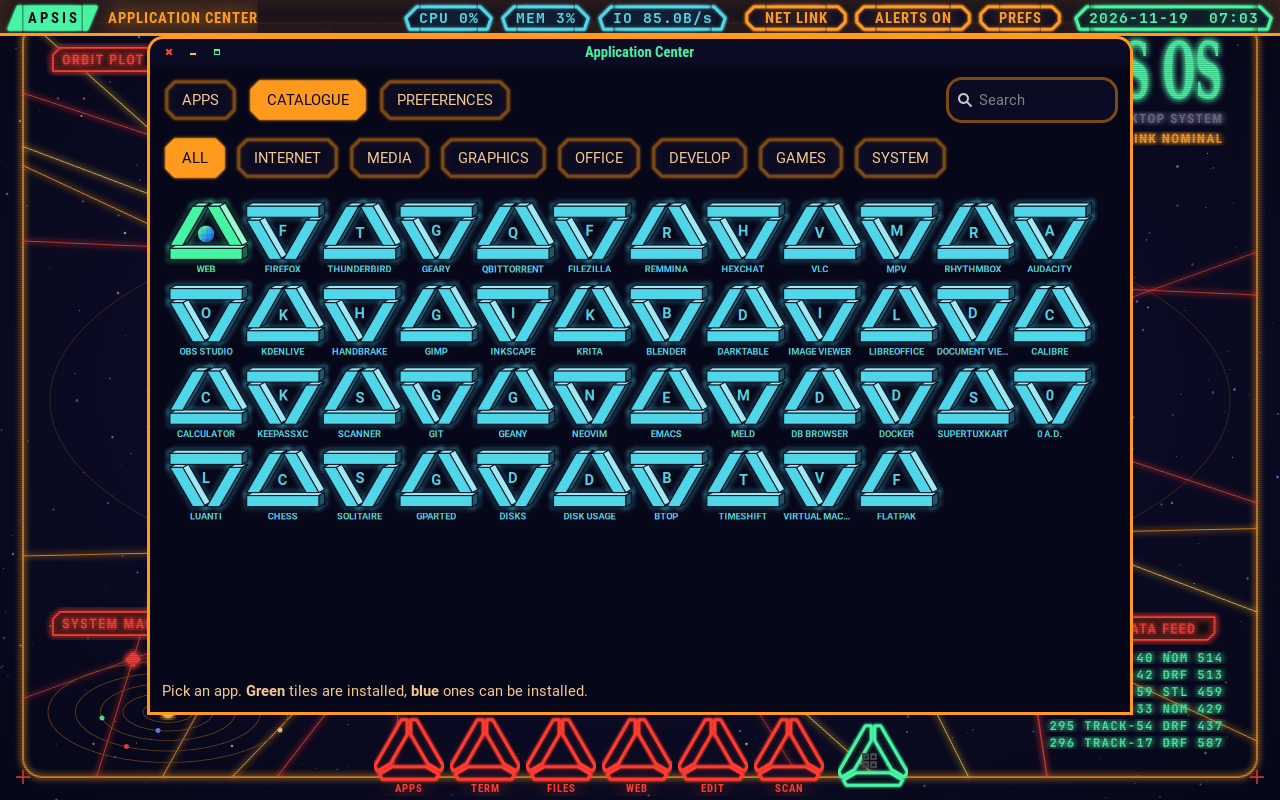
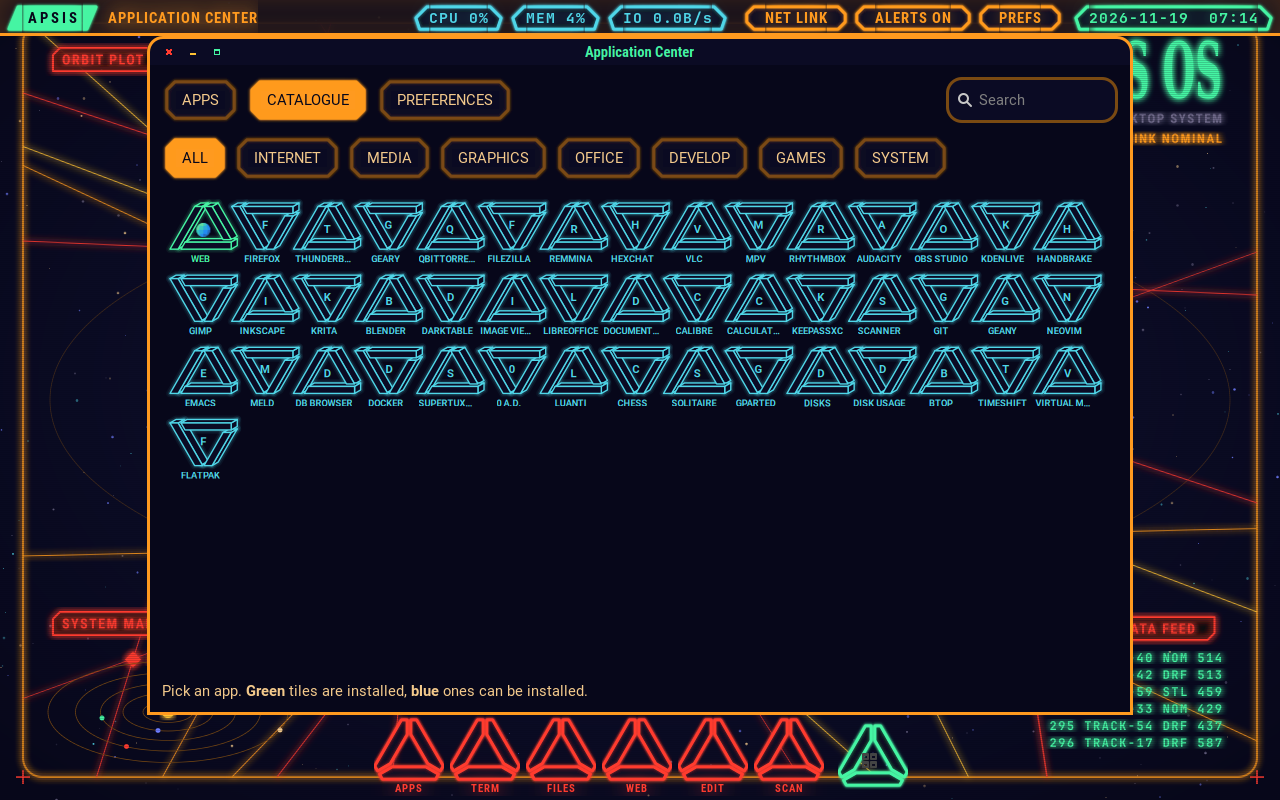
Draw app cells as an outline 3-D mark, closer to the sketch
The beams are now drawn as coloured edges only, with hidden edges
removed, and follow the sketch more closely: the right beam stands on
the level beam, the left one runs down past its end. The mark is about
15% smaller.

Claude-Session: https://claude.ai/code/session_0143c5w43otis7o21CvQfMnG

Changed region(s): [[0.125, 0.25, 0.875, 0.6562], [0.3125, 0.0, 0.5, 0.0625], [0.9688, 0.0, 1.0, 0.0312]]

diff --git a/os/rootfs/usr/share/hud/hudshapes.py b/os/rootfs/usr/share/hud/hudshapes.py
@@ -40,39 +40,42 @@ def tri_size(r, t, d):
 S3 = math.sqrt(3)
 
 
-def block_geometry(r, t, gap):
-    """Numbers shared by tri_blocks and the code that lays the blocks out.
+def tri_blocks(cx, cy, r, t, gap=2.5, up=True):
+    """Front faces of the three beams of the 3-D tri mark.
 
-    The opening is an equilateral triangle with corners r from its centre.
-    Each side of it gets a straight beam t thick, gap away from it; the two
-    slanted beams stand on the level one and end in square cuts side by
-    side at the top.
+    The opening is an equilateral triangle with corners r from its centre;
+    each beam is t thick and gap away from it. As in the reference sketch,
+    the two slanted beams end in square cuts side by side at the top; the
+    right one stands on the level beam, which runs out to its outer edge;
+    the left one runs down past the level beam's left end, which stops
+    short against it.
+
+    Returns (faces, opening centre). The mark is centred on cx across;
+    with up=False it is flipped top to bottom.
     """
     ci = r / 2 + gap / 2                 # centre to a beam's inner face
     co = ci + t                          # centre to a beam's outer face
-    y_top = -(r + t * 0.15)              # where the slanted beams are cut
-    y_foot = r / 2 - gap / 2             # where they stand
+    y_top = -(r + t * 0.2)               # where the slanted beams are cut
     y_bar = r / 2 + gap / 2              # top of the level beam
-    half = (2 * co + y_foot) / S3        # half the level beam's length
-    return ci, co, y_top, y_foot, y_bar, half
+    y_low = y_bar + t                    # bottom of the level beam
+    y_foot = y_bar - gap                 # where the right beam stands
 
-
-def tri_blocks(cx, cy, r, t, gap=3, up=True):
-    """Front faces of the three beams of the 3-D tri mark, as point lists.
-
-    With up=False the mark is flipped top to bottom (the level beam on top).
-    """
-    ci, co, y_top, y_foot, y_bar, half = block_geometry(r, t, gap)
-
-    def on(c, y):                        # x where the left-side line c meets height y
+    def on(c, y):                        # x on the left-side line c at height y
         return -(2 * c + y) / S3
 
-    left = [(on(co, y_top), y_top), (-gap / 2, y_top), (-gap / 2, -2 * ci + S3 * gap / 2),
-            (on(ci, y_foot), y_foot), (on(co, y_foot), y_foot)]
-    right = [(-x, y) for x, y in reversed(left)]
-    level = [(-half, y_bar), (half, y_bar), (half, y_bar + t), (-half, y_bar + t)]
+    apex = -2 * ci + S3 * gap / 2        # inner faces meet the centre line here
+    left = [(on(co, y_top), y_top), (-gap / 2, y_top), (-gap / 2, apex),
+            (on(ci, y_low), y_low), (on(co, y_low), y_low)]
+    right = [(-on(co, y_top), y_top), (-on(co, y_foot), y_foot), (-on(ci, y_foot), y_foot),
+             (gap / 2, apex), (gap / 2, y_top)]
+    level = [(on(ci - gap, y_bar), y_bar), (-on(co, y_foot), y_bar),
+             (-on(co, y_foot), y_low), (on(ci - gap, y_low), y_low)]
+    polys = [left, right, level]
+    xs = [x for poly in polys for x, _ in poly]
+    shift = -(min(xs) + max(xs)) / 2
     flip = 1 if up else -1
-    return [[(cx + x, cy + flip * y) for x, y in poly] for poly in (left, right, level)]
+    faces = [[(cx + shift + x, cy + flip * y) for x, y in poly] for poly in polys]
+    return faces, (cx + shift, cy)
 
 
 def block_faces(polys, ex, ey):

diff --git a/os/README.md b/os/README.md
@@ -69,9 +69,9 @@ and `hudctl set bar_prefs ...`; more are listed in
 
 Open it from the APPS tile in the dock, Cmd+A, or the system menu.
 
-- **Apps**: every installed app as a grid of interlocking cells, each three
-  solid 3-D beams around a triangular opening that holds the icon, with the
-  name underneath. Click one to
+- **Apps**: every installed app as a grid of interlocking cells, each a
+  line drawing of three 3-D beams around a triangular opening that holds
+  the icon, with the name underneath. Click one to
   start it; type to filter.
 - **Catalogue**: about 45 common apps by category. Blue cells can be
   installed, green ones are installed. Pick one and press Install; a
